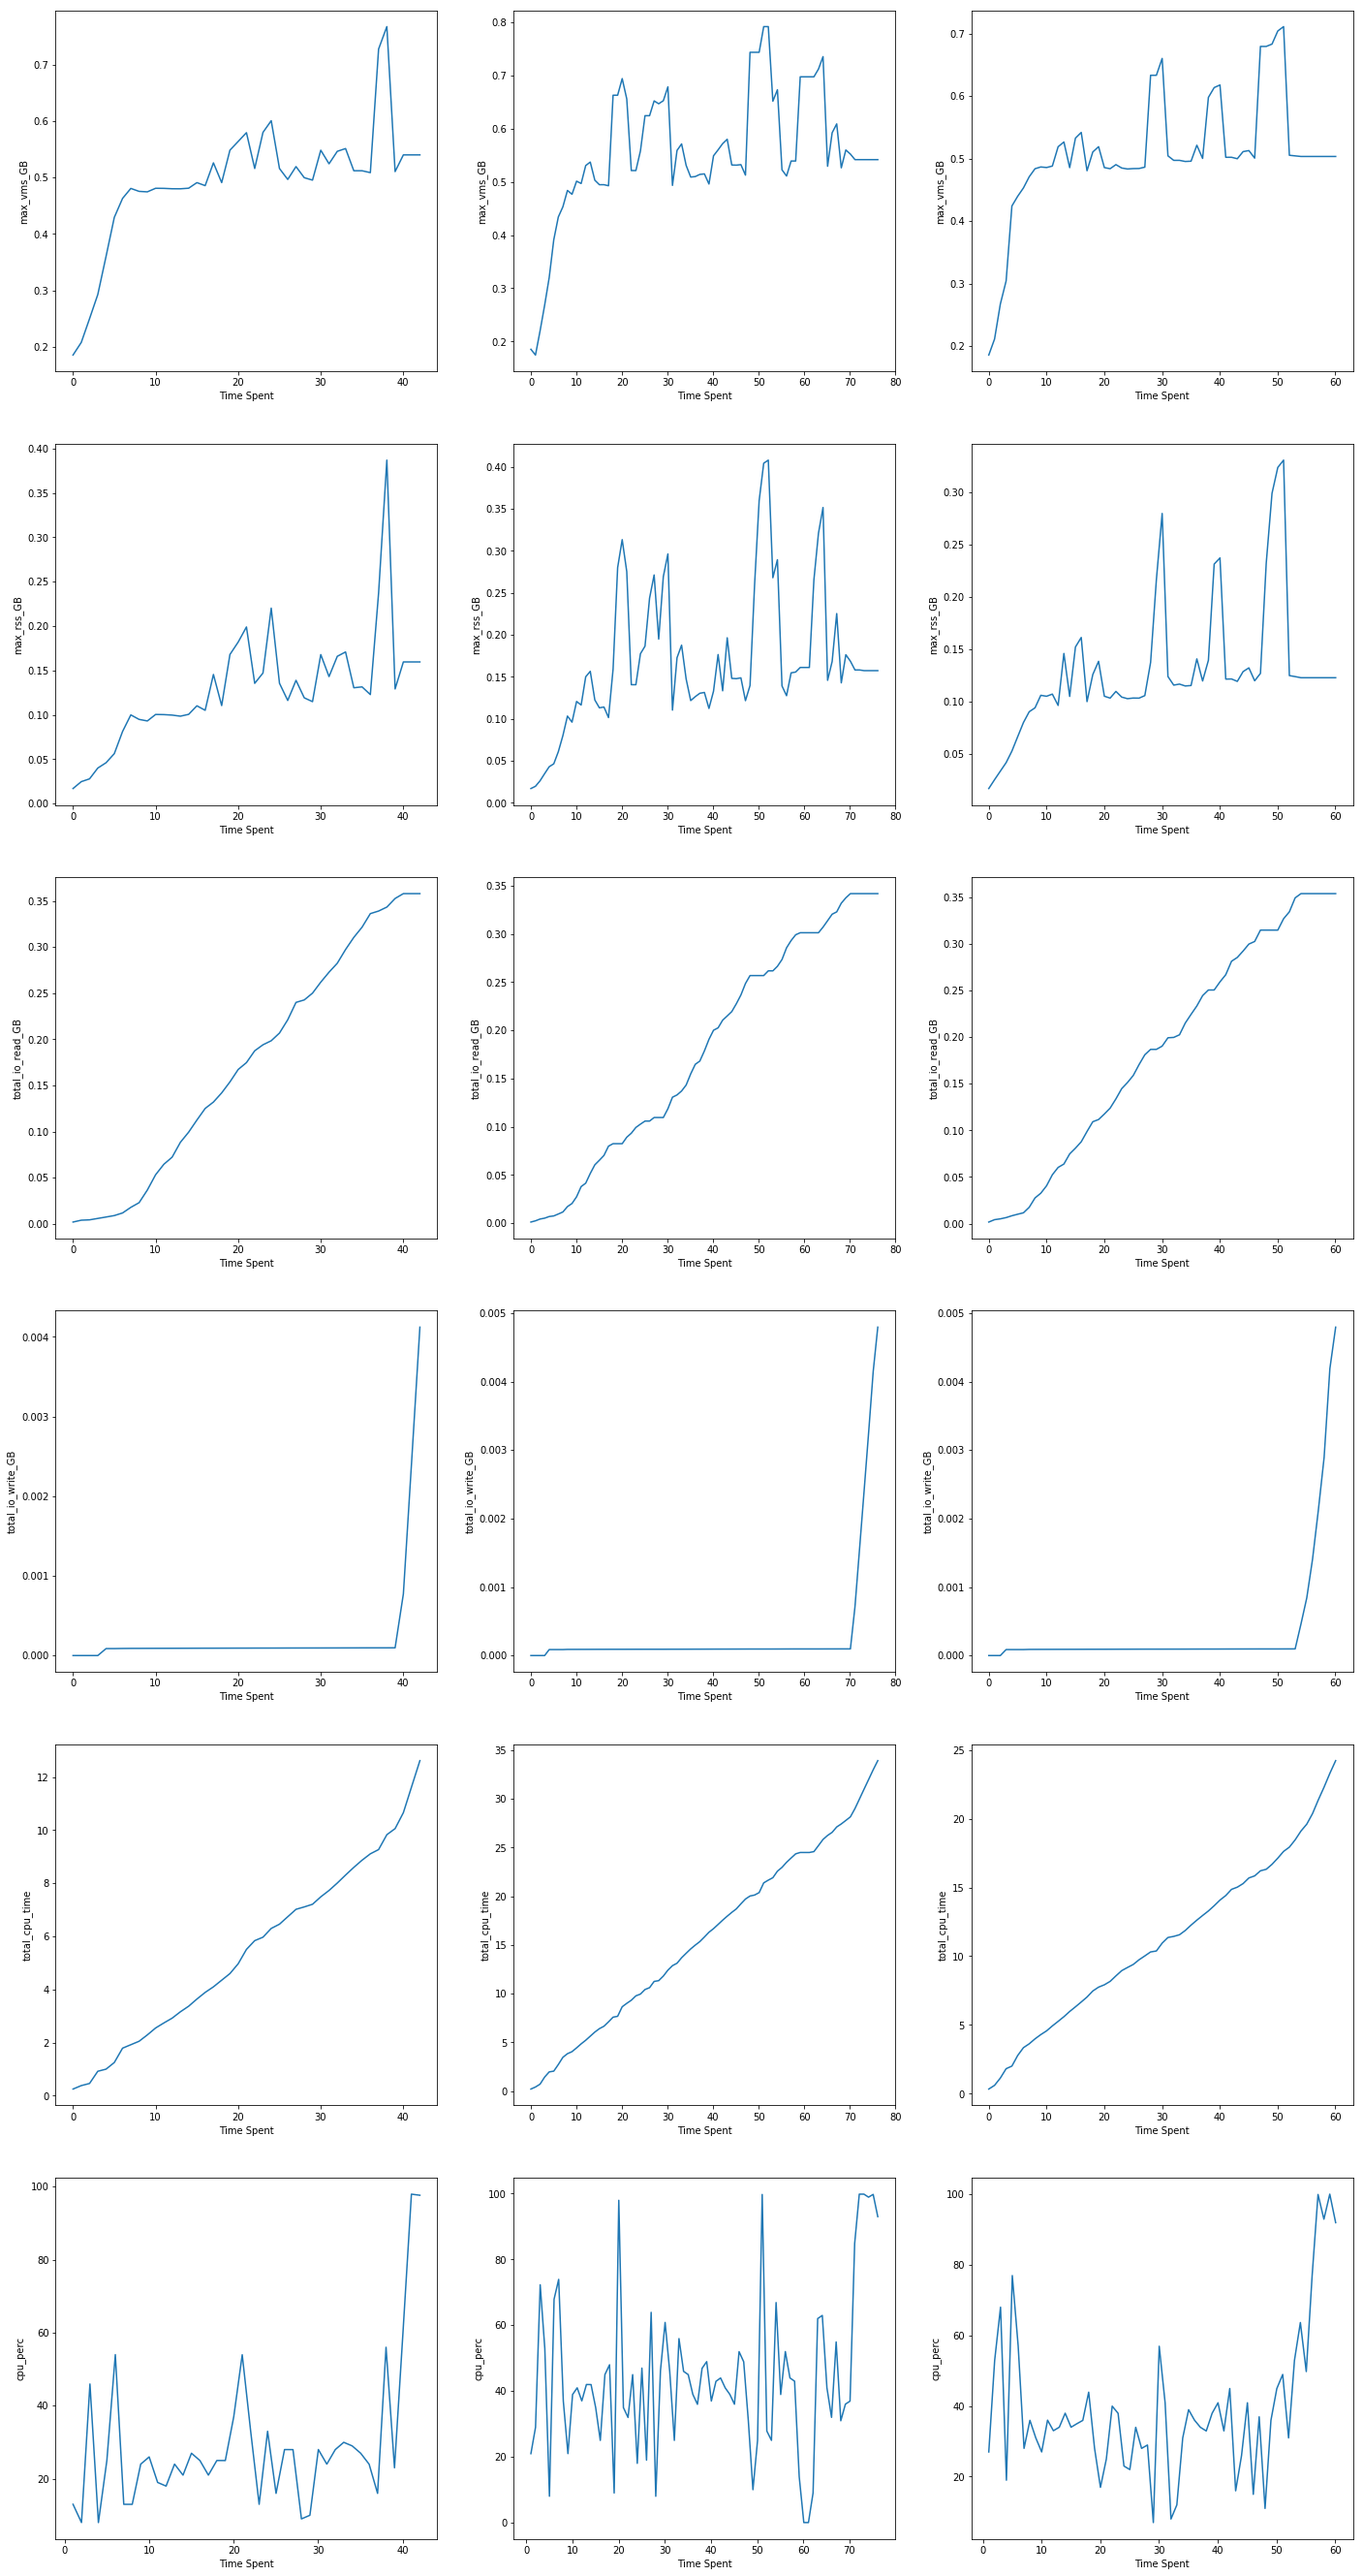
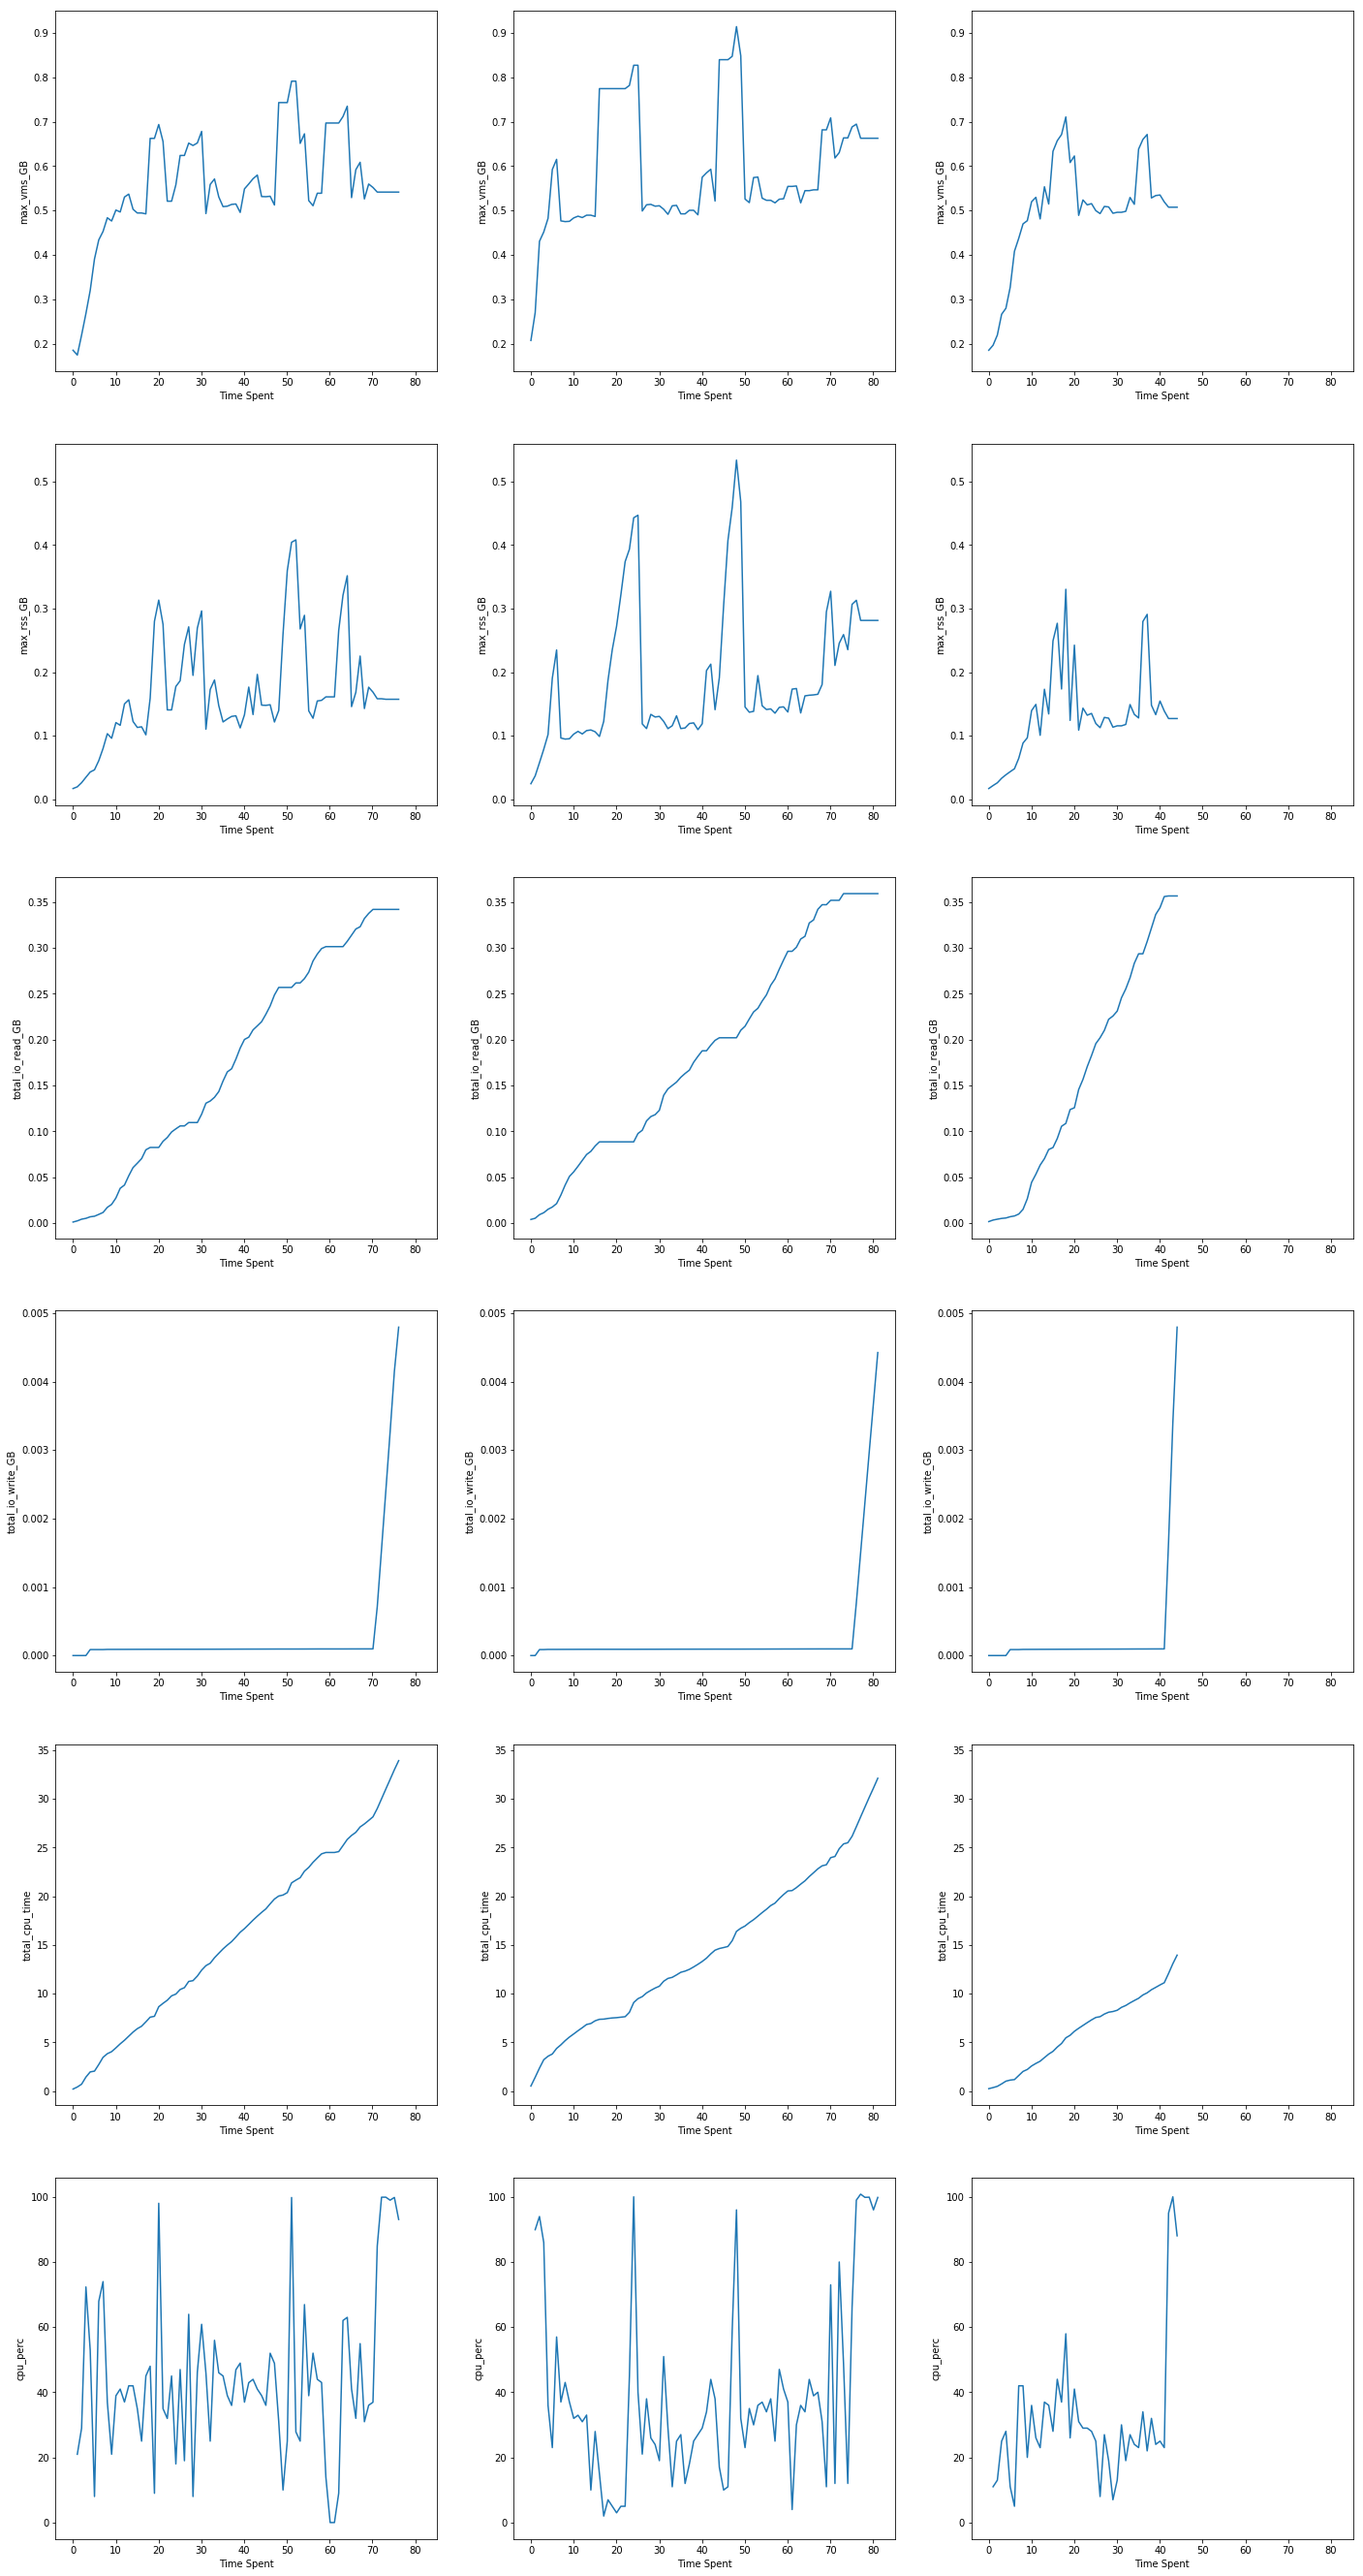
Standardize axis limits in sample plot and update sample image accordingly

diff --git a/var_monitor/usage_parse.py b/var_monitor/usage_parse.py
@@ -103,6 +103,8 @@ class UsageParser():
     
     def plot_sample(self, sample_size=1, var_list=VARLIST, save_plot=False, plot_file=None):
         
+        MARGIN = 0.05
+        
         sample_dfs = random.sample(self.dfs, sample_size)
         n_vars = len(var_list)
         
@@ -112,6 +114,7 @@ class UsageParser():
         for var_name in var_list:
             var_min = np.inf
             var_max = -np.inf
+            time_max = -np.inf
             var_axes = []
             for sample_df in sample_dfs:
                 ax = fig.add_subplot(n_vars, sample_size, ax_ind)
@@ -121,9 +124,16 @@ class UsageParser():
                 ax.set_ylabel(var_name)
                 var_max = max([var_max, sample_df[var_name].max()])
                 var_min = min([var_min, sample_df[var_name].min()])
+                time_max = max([time_max, sample_df['time_spent_s'].max()])
                 ax_ind += 1
+            
+            var_margin = MARGIN*(var_max - var_min)
+            var_lim = [var_min - var_margin, var_max + var_margin]
+            time_margin = MARGIN*(time_max)
+            time_lim = [-time_margin, time_max + time_margin]
             for ax in var_axes:
-                ax.set_ylim([var_min, var_max])
+                ax.set_ylim(var_lim)
+                ax.set_xlim(time_lim)
         
         save_or_show(fig, save_plot, plot_file)
 
